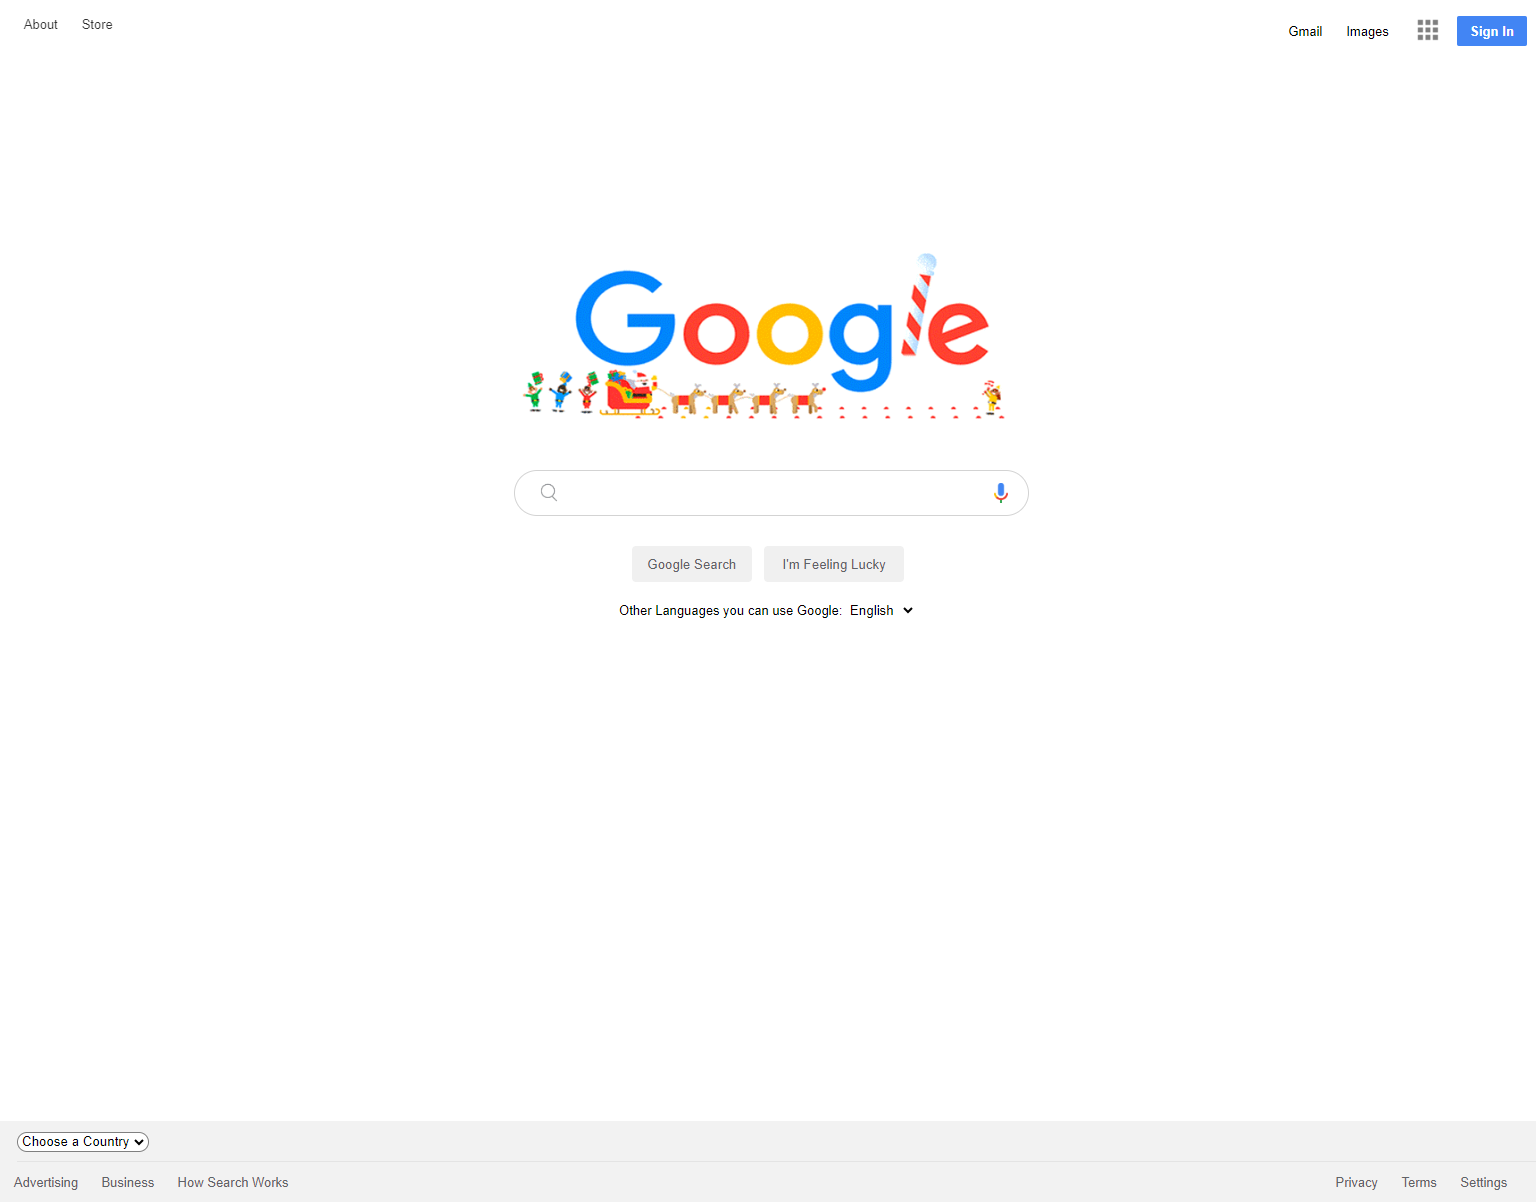
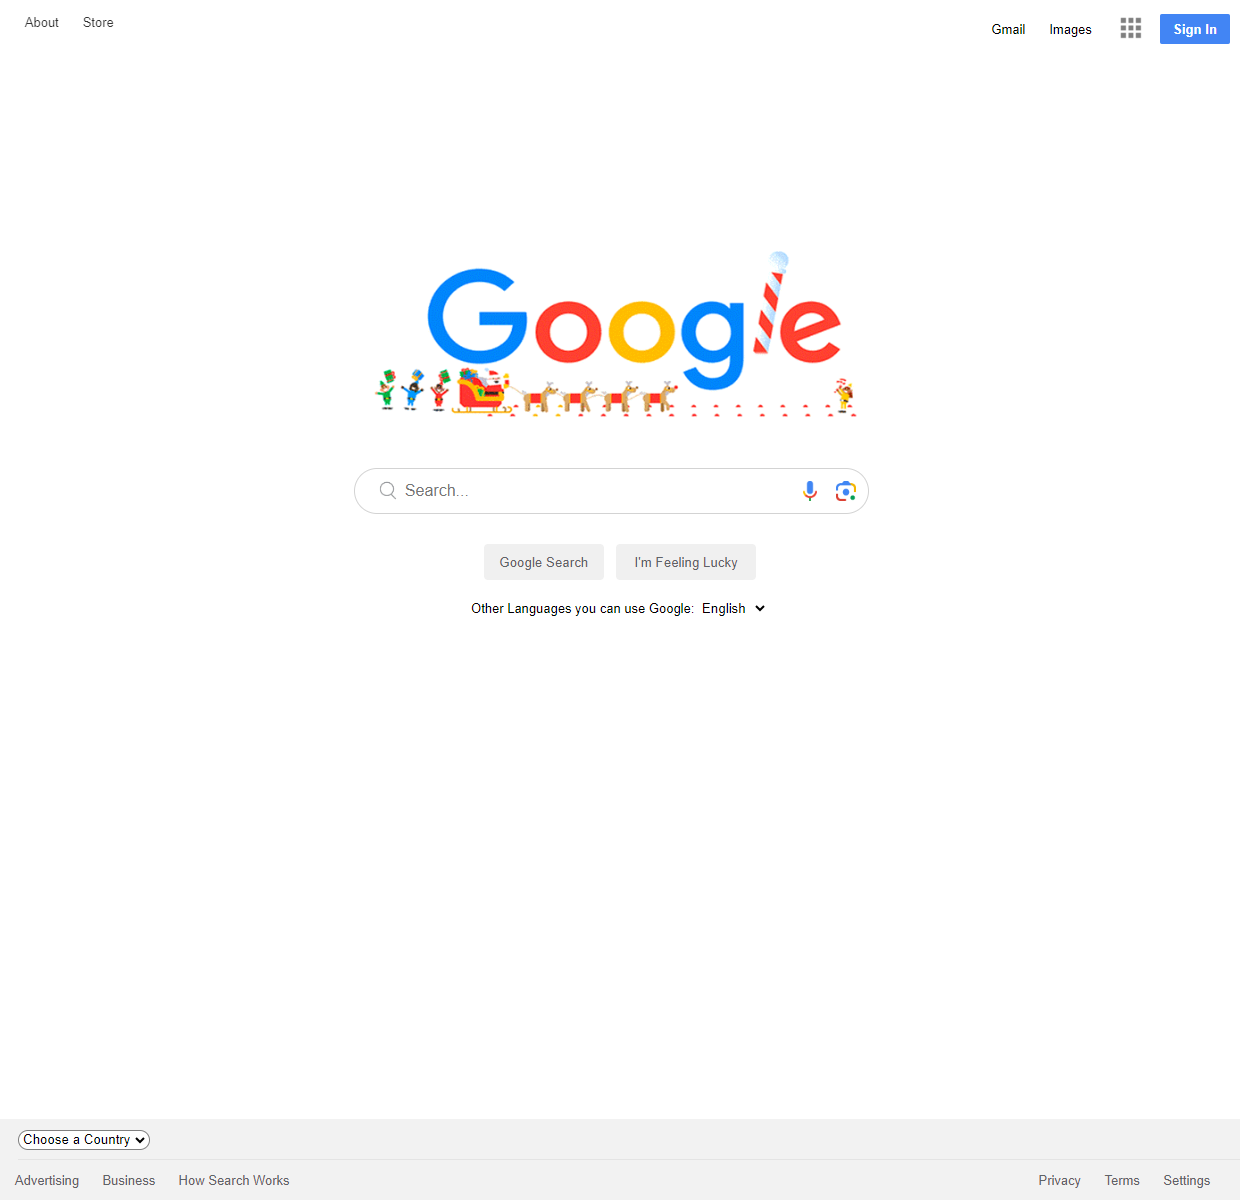
finished

diff --git a/index.html b/index.html
@@ -34,7 +34,7 @@
       />
 
       <div class="searchbar">
-        <input type="text" id="search" />
+        <input type="text" id="search" placeholder="Search..." />
         <img
           id="mag"
           src="images/magnifying_glass.jpg"
@@ -45,6 +45,9 @@
             src="images/google_microphone.png"
             alt="microphone"
             id="microphone"
+        /></a>
+        <a href="#"
+          ><img src="images/Google_Lens_2023.png" alt="lens" id="lens"
         /></a>
       </div>
       <div class="btn-container">

diff --git a/style.css b/style.css
@@ -54,6 +54,7 @@ header {
 
 #appicon:hover {
   opacity: 1;
+  transition-duration: 0.5s;
 }
 
 #sign-in-btn {
@@ -96,7 +97,14 @@ header {
 #microphone {
   position: relative;
   top: 5px;
-  right: 74px;
+  right: 105px;
+  height: 20px;
+}
+
+#lens {
+  position: relative;
+  top: 5px;
+  right: 90px;
   height: 20px;
 }
 

diff --git a/README.md b/README.md
@@ -1,4 +1,5 @@
 # Google_Chrismas_LandingPage
+
 https://omrfrkcpr.github.io/Google_Chrismas_LandingPage/
 
 ## Description
@@ -14,6 +15,7 @@ Google-Chrismas-LandingPage (folder)
 |----images
     |----appicon.png
     |----gfavicon.png
+	|----Google_Lens_2023.png
 	|----google_microphone.png
 	|----googlelogo.png
 	|----icon-menu.jpg
